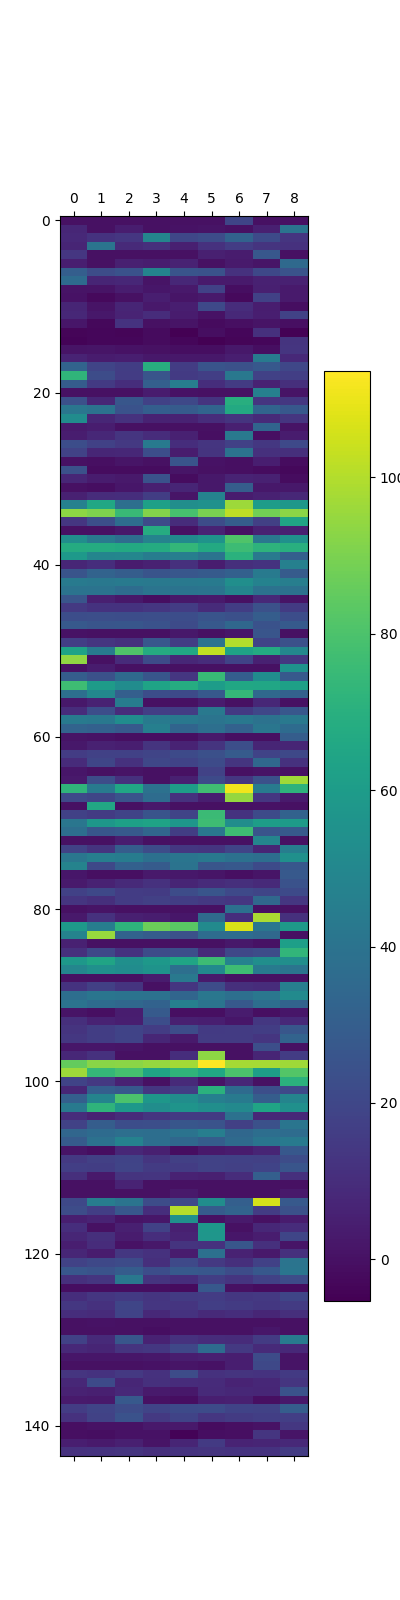
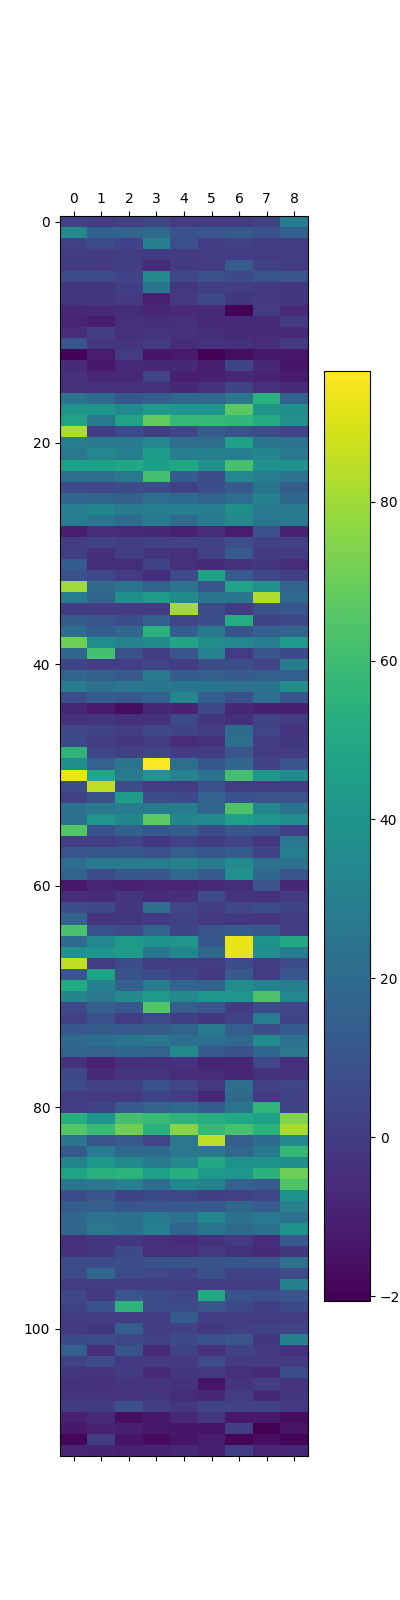
modif reward + clean env.py

diff --git a/src/env.py b/src/env.py
@@ -8,17 +8,12 @@ import matplotlib.pyplot as plt
 #Mad Pod Racing Environnement
 class MPR_env():
 
-    def __init__(self, discretisation = [5,4,3] , nb_action=3,nb_cp = 4,nb_round = 3,custom=False, chose_angle =False):
+    def __init__(self, discretisation = [5,4,3] , nb_action=3,nb_cp = 4,nb_round = 3,custom=False):
 
         self.board = Board(nb_cp, nb_round, custom)
         self.terminated = False
         height, width = self.board.getInfos()
         self.custom =custom
-        self.chose_angle = chose_angle
-
-        
-        #discretisation est une liste qui donne le nombre de valeurs possible pour chaque attribut que l'on souhaite discretiser 
-        #ex si etat = (angle,distance,vitesse) et angle peut prendre 7 valeurs distance 4 et vitesse 3 alors discretisation = [7,4,3]
 
         self.discretisation = discretisation
 
@@ -28,8 +23,6 @@ class MPR_env():
         self.max_dist = np.sqrt(width**2+height**2)
         
         self.nb_action = nb_action
-        if self.chose_angle:
-            self.nb_action*=5
         self.nb_etat = prod([discretisation[0]+2] + discretisation[1:])
         # le plus 2 est pas propre mais c'est pour la discretisation de l'angle on choisit 
         # step de discretisation pour les angles devant auquel on ajoute 2 pour les 2 etat possible si angle derriere
@@ -41,40 +34,30 @@ class MPR_env():
         
     def step(self,  action):
         next_cp = self.board.checkpoints[self.board.next_checkpoint]
-        target_x, target_y, thrust = self.convert_action(*self.past_pos,action,*next_cp.getCoord())
-        x,y,next_cp_x,next_cp_y,dist,angle = self.board.play(Point(target_x,target_y),thrust)
-        # x,y,next_cp_x,next_cp_y,dist,angle = self.board.play(next_cp,thrust) # sans direction
+        thrust = self.convert_action(action)
+        # x,y,next_cp_x,next_cp_y,dist,angle = self.board.play(Point(target_x,target_y),thrust)
+        x,y,next_cp_x,next_cp_y,dist,angle = self.board.play(next_cp,thrust) # sans direction
         self.traj.append([x,y])
         self.vitesse.append(self.discretized_speed(x,y))
 
         #si rien de specifique ne s'est produit 
-        reward = - 0.1*(self.discretisation[2] -self.discretized_speed(x,y) )
-        if self.chose_angle:
-            reward -= 0.1*self.discretized_distance(dist)
+        reward = - self.reward(dist)*0.01
         #si la course est terminée
         if self.board.terminated:
             #arret a cause d'un timeout
             if self.board.pod.timeout<0:
-                reward = -20
+                reward = -100
                 self.terminated = True
-
             #arret fin de course
             else:
                 reward= 100
                 self.terminated = True
-
-
-
         next_state =self.discretized_state(angle, dist, x,y)
-
-
-        vitesse = np.sqrt(abs(x - self.past_pos[0])**2 + abs(y - self.past_pos[1])**2)
-        next_state_matrix = [angle,
-                        dist,
-                        vitesse]
-
-        return next_state,next_state_matrix,reward, self.terminated
+        return next_state,reward, self.terminated
     
+    def reward(self, dist):
+        bins = [600,700,800,1000,2000,3000,5000,6000,8000,100000]
+        return np.digitize(dist,bins)
 
     def reset(self,seed=None,options=None):
         self.board = Board(nb_cp=4,nb_round=3,custom =self.custom)
@@ -85,56 +68,27 @@ class MPR_env():
         self.past_pos= (x,y)
 
         next_cp = self.board.checkpoints[self.board.next_checkpoint]
-        cp_x, cp_y = next_cp.getCoord()
         dist = self.board.pod.distance(next_cp)
         angle = self.board.pod.angle
 
-        vitesse = np.sqrt(abs(x - self.past_pos[0])**2 + abs(y - self.past_pos[1])**2)
-        state_matrix = [angle,
-                        dist,
-                        vitesse]
-
-        return self.discretized_state(angle,dist, x, y), state_matrix
+        return self.discretized_state(angle,dist, x, y)
     
 
     def discretized_angle(self, angle):
         #discretisation de l'angle self.discretisation corresponds à en combien d'etats on discretise un angle qui 
         #corresponds à devant le pod. si l'angle indique l'arrière du pod il est discretisé en deux états
-        if 0<= angle<= 180:
-            for i in range(self.discretisation[0]):
-                if angle <=  (i+1)* (180/self.discretisation[0]):
-                    res = i
-        elif angle < 270:
-            res = self.discretisation[0]
-        else:
-            res = self.discretisation[0] +1
-
-        assert res < self.discretisation[0]+2
-        return res
+        bins = [180,270]
+        return np.digitize(angle,bins)
         
     def discretized_distance(self, dist):
-        if dist> self.max_dist:
-            dist= self.max_dist
-        if dist< 1000:
-            res = 0
-        elif dist<2000:
-            res = 1
-        elif dist<8000:
-            res = 2
-        else:
-            res = 3
-        assert res < self.discretisation[1]
-        return res
+        bins = [1000,2000,8000,self.max_dist]
+        return np.digitize(dist,bins)
     
     def discretized_speed(self, x,y):
-
         vitesse = np.sqrt(abs(x - self.past_pos[0])**2 + abs(y - self.past_pos[1])**2)
-        if vitesse<100:
-            return 0
-        elif vitesse<300:
-            return 1
-        else:
-            return 2
+        bins = [100,300]
+        return np.digitize(vitesse,bins)
+
     
 
     def discretized_state(self, angle, dist, x, y):
@@ -142,24 +96,9 @@ class MPR_env():
         index = state[0]*(self.discretisation[1] * self.discretisation[2]) + state[1]*self.discretisation[2] + state[2]
         return index
 
-    def convert_action(self,x,y, action,x_target, y_target):
-        if self.chose_angle :
-            thrust = action //5
-            mapping_thrust = {0:0,1:70,2:100}
-
-            angle_action = action % 5
-            angle = math.degrees(math.atan2(y_target - y, x_target - x))
-            mapping_angle = {0:-18,1:-9,2:0,3:9,4:18}
-            new_angle = angle + mapping_angle[angle_action]
-            new_angle = math.radians(new_angle)
-
-            new_x = x + math.cos(new_angle)
-            new_y = y + math.sin(new_angle)
-            return  new_x, new_y, mapping_thrust[thrust]
-        
-        else:
-            mapping_thrust = {0:0,1:70,2:100}
-            return x_target,y_target, mapping_thrust[action]
+    def convert_action(self, action):
+        mapping_thrust = {0:0,1:70,2:100}
+        return mapping_thrust[action]
 
 
     

diff --git a/src/qagent.py b/src/qagent.py
@@ -32,6 +32,7 @@ class Qagent:
 
         #False si l'on souhaite evaluer l'agent durant l'apprentissage
         self.do_test = do_test
+        self.eps = []
         #nombre de test à faire par phase de test durant l'apprentissage
 
     def train(self):
@@ -45,17 +46,20 @@ class Qagent:
                 self.update_q_table(state,action,next_state,reward)
                 state = next_state
                 cum_reward += reward
-
-                if terminated:
+                if terminated:  
+                    if reward!=100:
+                        print(i)               
                     break
-            self.epsilon = max(0.05, self.epsilon * 0.995)
-            if self.do_test and i%5 ==0:
-                nb_steps, cum_reward = self.test(i)
+
+            self.epsilon = max(0.05, self.epsilon * 0.998)
+            self.eps.append(self.epsilon)
+            if self.do_test and i%10 ==0:
+                nb_steps, cum_reward = self.test()
                 self.steps.append((i,nb_steps))
                 self.rewards.append((i,cum_reward))
 
 
-    def test(self, ep):
+    def test(self):
 
         state = self.env.reset()
         pas = 0
@@ -111,43 +115,17 @@ class Qagent:
             for i, step in self.steps:
                 writer.writerow([i, step])
 
-    def qtable_file(self, filename):
-        with open(filename, 'w') as f:
-            f.write("qtable = [\n")
-            for row in self.qtable:
-                f.write(f"    {repr(row)},\n")
-            f.write("]\n")
-
-def convert_action(action, past_pos, current_pos):
-    """
-    Calcule la cible (x, y) associée à une action discrète.
-    """
-    mapping_thrust = {0: 0, 1: 70, 2: 100}
-    mapping_angle = {0: -90, 1: 0, 2: 90}
-
-    thrust = mapping_thrust[action // 3]
-    angle_action = mapping_angle[action % 3]
-
-    x_past, y_past = past_pos
-    x, y = current_pos
-
-    # direction actuelle
-    angle = math.degrees(math.atan2(y - y_past, x - x_past))
-    new_angle = (angle + angle_action + 540) % 360 - 180
-
-    # projection à 500 unités dans la nouvelle direction
-    new_x = x + math.cos(math.radians(new_angle)) * 500
-    new_y = y + math.sin(math.radians(new_angle)) * 500
-
-    return new_x, new_y, thrust
 
 
 
 
-def main():
+
+if __name__ == "__main__":
     agent = Qagent(MPR_env(custom=False, nb_round=1,nb_cp=2), do_test=True, episodes= 6000, max_steps=20000)
 
+    # np.save("qtable", agent.qtable)
     agent.train()
+    np.savetxt("qtable", agent.qtable)
 
     agent.env.show_traj()
     
@@ -176,6 +154,7 @@ def main():
     plt.xlabel("Episodes")
     plt.ylabel("Steps")
     plt.title(f"Nombre de steps par episode (moyenne par batch de {batch_size})")
+
     plt.savefig(f"{GRAPH_PATH}/step_per_ep_{timestamp}")
 
     reward_x_b = [agent.rewards[i][0] for i in range(0, len(agent.rewards), batch_size)]
@@ -191,7 +170,12 @@ def main():
     plt.title(f"Reward par episode (moyenne par batch de {batch_size})")
     plt.savefig(f"{GRAPH_PATH}/reward_per_ep_{timestamp}")
 
+    plt.figure()
+    plt.plot(agent.eps)
+    plt.title("evolution epsilon")
+    plt.savefig(f"{GRAPH_PATH}/evolution_eps")
 
 
-    
-main()
+
+
+

diff --git a/src/env_dir.py b/src/env_dir.py
@@ -9,7 +9,7 @@ from matplotlib.patches import Circle
 #Mad Pod Racing Environnement
 class MPR_env():
 
-    def __init__(self, discretisation = [9,4,4] ,nb_cp = 4,nb_round = 3,custom=False):
+    def __init__(self, discretisation = [7,4,4] ,nb_cp = 4,nb_round = 3,custom=False):
 
         self.board = Board(nb_cp, nb_round, custom)
         self.terminated = False
@@ -47,7 +47,8 @@ class MPR_env():
         vitesse = np.sqrt((x - self.past_pos[0])**2 + (y - self.past_pos[1])**2)
 
         self.vitesse.append(vitesse)
-        reward = np.clip(- (dist/(vitesse+1)) ,-100,0)*0.01
+        # reward = np.clip(- (dist/(vitesse+1)) ,-100,0)*0.01
+        reward = -self.reward(dist)*0.1
 
         # if self.next_cp_old != self.board.next_checkpoint:
         #     reward = 20
@@ -56,7 +57,7 @@ class MPR_env():
         if self.board.terminated:
             #arret a cause d'un timeout
             if self.board.pod.timeout<0:
-                reward = -20
+                reward = -100
                 self.terminated = True
             #arret fin de course
             else:
@@ -71,6 +72,9 @@ class MPR_env():
 
         return next_state,reward, self.terminated
     
+    def reward(self, dist):
+        bins = [600,700,800,1000,2000,3000,5000,6000,8000,100000]
+        return np.digitize(dist,bins)
 
     def reset(self):
         self.board = Board(nb_cp=self.nb_cp,nb_round=self.nb_round,custom =self.custom)
@@ -99,26 +103,26 @@ class MPR_env():
 
         x,y = self.current_pos
         x_past,y_past = self.past_pos
+
         angle_pod = math.degrees(math.atan2(y - y_past, x - x_past)) % 360
 
         error = (angle - self.board.pod.angle + 540) % 360 - 180
         # error = (angle - angle_pod + 540) % 360 - 180
         # print(error)
-        bins = [-90, -45, -10, -3, 3, 10 ,45, 90,180]
+        # bins = [-90, -45, -10, -3, 3, 10 ,45, 90,180]
+        bins = [-90, -10, -3, 3, 10 , 90,180]
         res = np.digitize(error, bins)
         
         return res
 
 
     def discretized_distance(self, dist):
-        bins = [2000, 4000,8000]
-
-
+        bins = [1500, 3000,8000]
         return np.digitize(dist, bins)
 
     def discretized_speed(self, x, y):
         vitesse = np.sqrt((x - self.past_pos[0])**2 + (y - self.past_pos[1])**2)
-        bins = [300,500, 800]
+        bins = [400,700, 1000]
 
         return np.digitize(vitesse, bins)
 
@@ -146,7 +150,7 @@ class MPR_env():
         new_angle = (angle + angle_action +540)%360 -180
         new_x = x + math.cos(math.radians(new_angle)) *500
         new_y = y + math.sin(math.radians(new_angle)) *500
-        return new_x, new_y, thrust
+        return int(new_x), int(new_y), thrust
 
 
     
@@ -156,8 +160,8 @@ class MPR_env():
         b_y= [b.getCoord()[1] for b in self.board.checkpoints]
         x,y = zip(*self.traj)
         plt.figure()
-        # plt.xlim(0,16000)
-        # plt.ylim(0,9000)
+        plt.xlim(0,16000)
+        plt.ylim(0,9000)
         plt.gca().invert_yaxis() 
         plt.scatter(x,y,c =np.arange(len(self.traj)), s = 1)
         for bx, by in zip(b_x, b_y):

diff --git a/src/visualisation.py b/src/visualisation.py
@@ -47,7 +47,8 @@ def comparatif():
     agent1 = Qagent(MPR_env(),episodes=5000, max_steps=2000, do_test=True)
 
     #Agent choisit thrust et cible
-    agent2 = Qagent(MPR_env(chose_angle=True),episodes=5000, max_steps=2000, do_test=True)
+    agent2 =  Qagent(MPR_env(custom=False, nb_round=1,nb_cp=2), do_test=True, episodes= 6000, max_steps=20000)
+
     
     #Agent heuristique
     agent3 = Hagent()
@@ -67,7 +68,7 @@ def comparatif():
     agent3.save_steps(f'{LOG_PATH}/agent3_steps_{timestamp}')
 
     #recuperation des traj
-    env_test_dir = MPR_env(custom=True, chose_angle=True)
+    env_test_dir = MPR_env(custom=True)
     env_test = MPR_env(custom=True)
     agent1.env = env_test
     agent2.env = env_test_dir
@@ -153,4 +154,5 @@ def comparatif():
 
 
 
-fig_epsilon()
+# fig_epsilon()
+comparatif()
